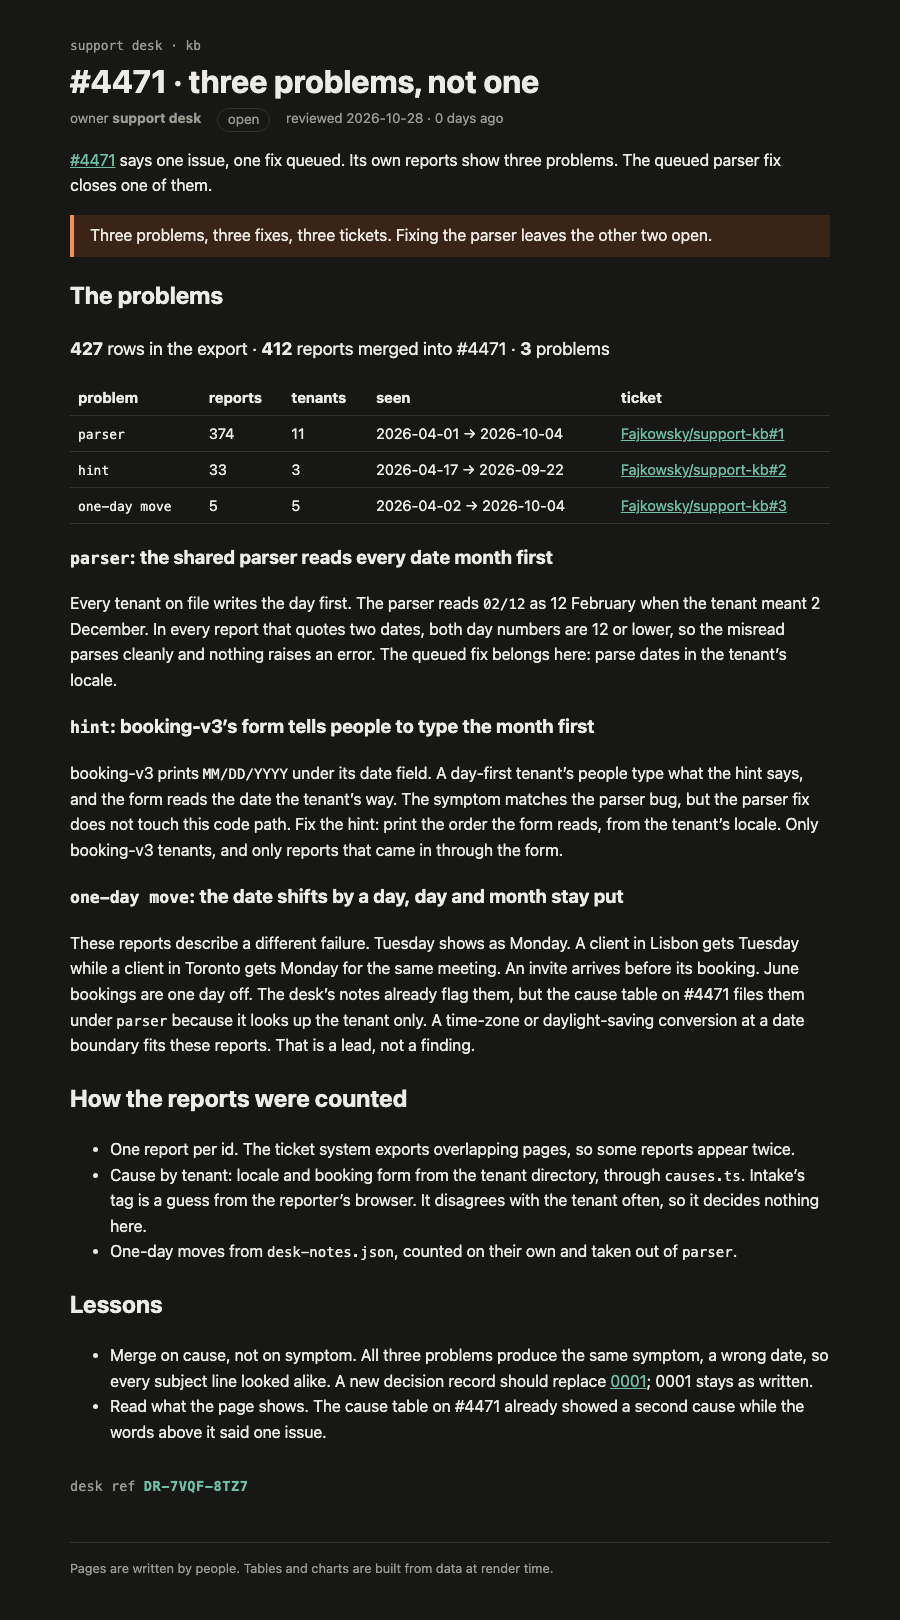
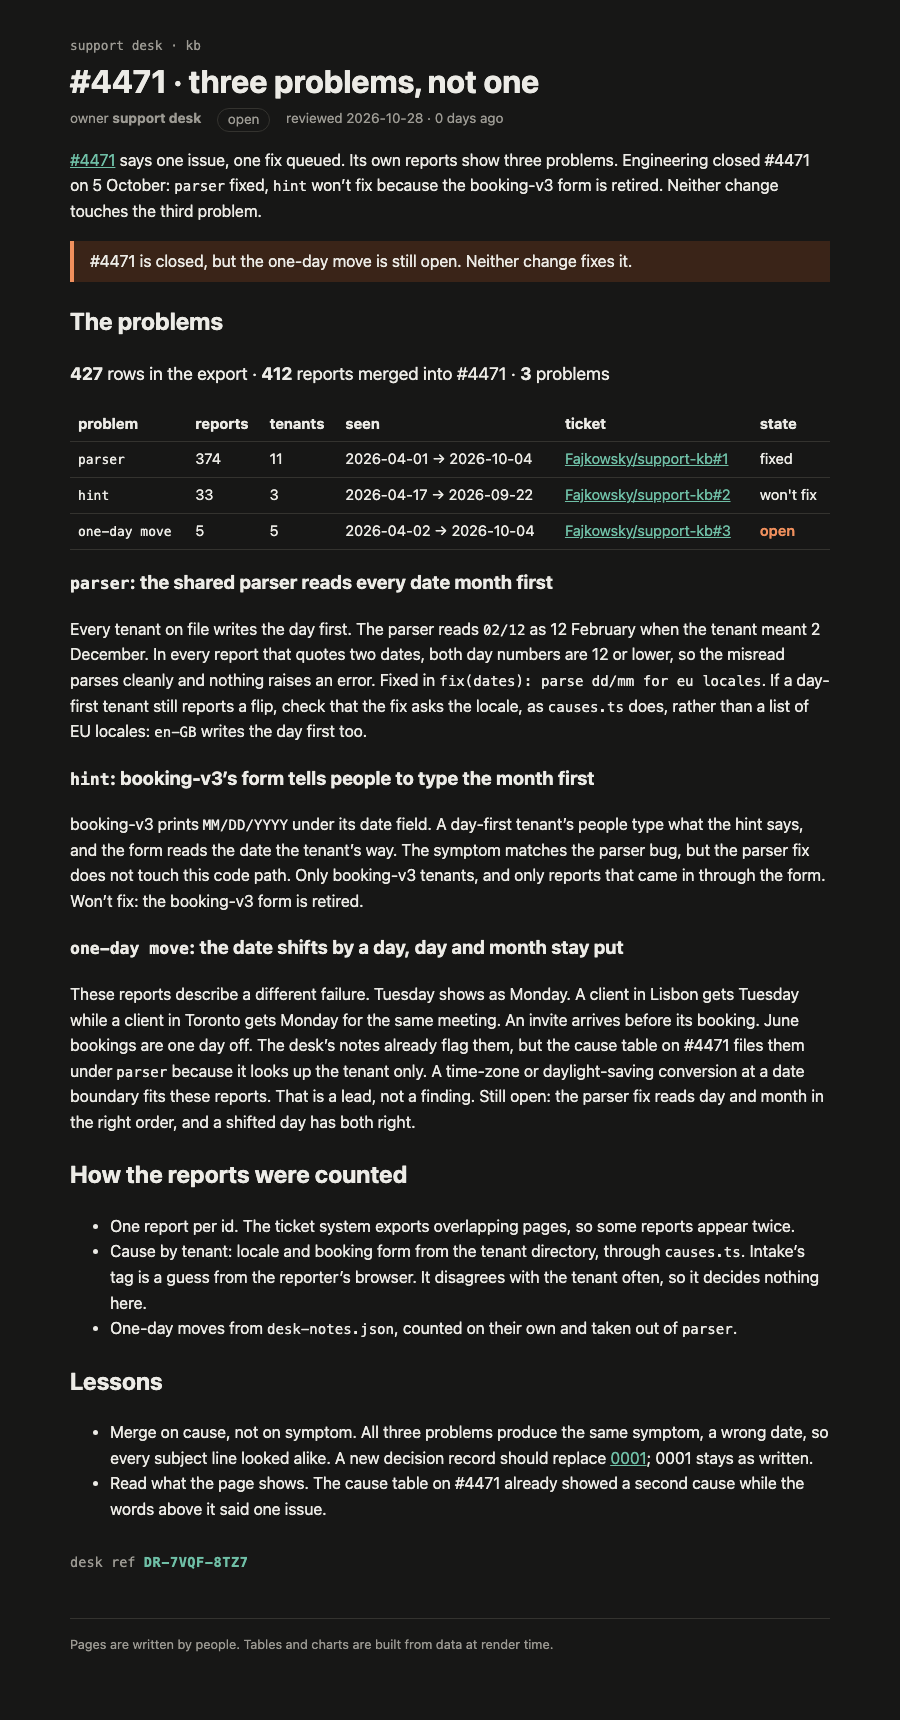
Show where each #4471 problem stands after the 5 October update
Engineering closed #4471: parser fixed, hint won't fix (booking-v3
retired). The one-day move has no fix, so the page and its table
show it as the one problem still open.

diff --git a/rendered/kb/incidents/4471/problems.html b/rendered/kb/incidents/4471/problems.html
@@ -9,11 +9,11 @@
 		<link href="../../../_app/immutable/chunks/B2Ul7l_u.js" rel="modulepreload">
 		<link href="../../../_app/immutable/chunks/BCPXOG7W.js" rel="modulepreload">
 		<link href="../../../_app/immutable/chunks/Dh1V97Jm.js" rel="modulepreload">
-		<link href="../../../_app/immutable/entry/app.Bq2Z7Id1.js" rel="modulepreload">
+		<link href="../../../_app/immutable/entry/app.DWnXs-pQ.js" rel="modulepreload">
 		<link href="../../../_app/immutable/nodes/0.C9KfiiPz.js" rel="modulepreload">
 		<link href="../../../_app/immutable/chunks/DK3Fl9T5.js" rel="modulepreload">
-		<link href="../../../_app/immutable/nodes/5.3StRQrpY.js" rel="modulepreload">
-		<link href="../../../_app/immutable/chunks/CR5Lz9Zx.js" rel="modulepreload">
+		<link href="../../../_app/immutable/nodes/5.BCC8xvKn.js" rel="modulepreload">
+		<link href="../../../_app/immutable/chunks/B6C2bAN5.js" rel="modulepreload">
 		<link href="../../../_app/immutable/chunks/BTPwLomz.js" rel="modulepreload">
 		<link href="../../../_app/immutable/chunks/CVBzP17p.js" rel="modulepreload">
 		<link href="../../../_app/immutable/chunks/BIy4WKJS.js" rel="modulepreload">
@@ -22,25 +22,29 @@
 
 aside.svelte-17bri61{border-left:4px solid var(--accent);background:var(--note-bg);margin:1rem 0;padding:.5rem 1rem}aside.warn.svelte-17bri61{border-color:var(--warn);background:var(--warn-bg)}
 
-.sum.svelte-1op6c6{font-size:1.1rem}.stamp.svelte-1280m42{font:.85rem var(--mono);color:var(--muted);margin:2rem 0 0}.stamp.svelte-1280m42 b:where(.svelte-1280m42){color:var(--accent);letter-spacing:.04em}.missing.svelte-1280m42{color:var(--warn)}
+.sum.svelte-1op6c6{font-size:1.1rem}.open.svelte-1op6c6{color:var(--warn);font-weight:600}.stamp.svelte-1280m42{font:.85rem var(--mono);color:var(--muted);margin:2rem 0 0}.stamp.svelte-1280m42 b:where(.svelte-1280m42){color:var(--accent);letter-spacing:.04em}.missing.svelte-1280m42{color:var(--warn)}
 </style>
 		<link href="../../../_app/immutable/assets/runbook.COyw0cbZ.css" rel="stylesheet" disabled media="(max-width: 0)">
 		<link href="../../../_app/immutable/assets/Callout.AbLv9dM_.css" rel="stylesheet" disabled media="(max-width: 0)">
-		<link href="../../../_app/immutable/assets/_page.CgouBqEL.css" rel="stylesheet" disabled media="(max-width: 0)">
+		<link href="../../../_app/immutable/assets/_page.CMnGdVaO.css" rel="stylesheet" disabled media="(max-width: 0)">
   </head>
   <body>
     <div style="display: contents"><!--[--><!--[--><!--[0--><!--[--><!--[--><!--[-1--><!--[--><div class="kb svelte-e2jw2j"><header><a class="crumb svelte-e2jw2j" href="/kb">support desk · kb</a> <h1 class="svelte-e2jw2j">#4471 · three problems, not one</h1> <p class="meta svelte-e2jw2j"><span>owner <b>support desk</b></span> <span class="status open svelte-e2jw2j">open</span> <span class="svelte-e2jw2j">reviewed 2026-10-28 · 0 days ago</span></p></header> <!--[-1--><!--]--> <main><p><a href="/kb/incidents/4471">#4471</a> says one issue, one fix queued. Its own reports show three problems.
-The queued parser fix closes one of them.</p> <aside class="warn svelte-17bri61"><!---->Three problems, three fixes, three tickets. Fixing the parser leaves the other two open.<!----></aside><!----> <h2>The problems</h2> <p class="sum svelte-1op6c6"><strong>427</strong> rows in the export · <strong>412</strong> reports merged into #4471 · <strong>3</strong> problems</p> <table><thead><tr><th>problem</th><th>reports</th><th>tenants</th><th>seen</th><th>ticket</th></tr></thead><tbody><!--[--><tr><td><code>parser</code></td><td>374</td><td>11</td><td>2026-04-01 → 2026-10-04</td><td><!--[0--><a href="https://github.com/Fajkowsky/support-kb/issues/1">Fajkowsky/support-kb#1</a><!--]--></td></tr><tr><td><code>hint</code></td><td>33</td><td>3</td><td>2026-04-17 → 2026-09-22</td><td><!--[0--><a href="https://github.com/Fajkowsky/support-kb/issues/2">Fajkowsky/support-kb#2</a><!--]--></td></tr><tr><td><code>one-day move</code></td><td>5</td><td>5</td><td>2026-04-02 → 2026-10-04</td><td><!--[0--><a href="https://github.com/Fajkowsky/support-kb/issues/3">Fajkowsky/support-kb#3</a><!--]--></td></tr><!--]--></tbody></table><!----> <h3><code>parser</code>: the shared parser reads every date month first</h3> <p>Every tenant on file writes the day first. The parser reads <code>02/12</code> as 12 February when the
+Engineering closed #4471 on 5 October: <code>parser</code> fixed, <code>hint</code> won’t fix because the booking-v3
+form is retired. Neither change touches the third problem.</p> <aside class="warn svelte-17bri61"><!---->#4471 is closed, but the one-day move is still open. Neither change fixes it.<!----></aside><!----> <h2>The problems</h2> <p class="sum svelte-1op6c6"><strong>427</strong> rows in the export · <strong>412</strong> reports merged into #4471 · <strong>3</strong> problems</p> <table><thead><tr><th>problem</th><th>reports</th><th>tenants</th><th>seen</th><th>ticket</th><th>state</th></tr></thead><tbody><!--[--><tr><td><code>parser</code></td><td>374</td><td>11</td><td>2026-04-01 → 2026-10-04</td><!--[0--><td><a href="https://github.com/Fajkowsky/support-kb/issues/1">Fajkowsky/support-kb#1</a></td> <td class="svelte-1op6c6">fixed</td><!--]--></tr><tr><td><code>hint</code></td><td>33</td><td>3</td><td>2026-04-17 → 2026-09-22</td><!--[0--><td><a href="https://github.com/Fajkowsky/support-kb/issues/2">Fajkowsky/support-kb#2</a></td> <td class="svelte-1op6c6">won't fix</td><!--]--></tr><tr><td><code>one-day move</code></td><td>5</td><td>5</td><td>2026-04-02 → 2026-10-04</td><!--[0--><td><a href="https://github.com/Fajkowsky/support-kb/issues/3">Fajkowsky/support-kb#3</a></td> <td class="svelte-1op6c6 open">open</td><!--]--></tr><!--]--></tbody></table><!----> <h3><code>parser</code>: the shared parser reads every date month first</h3> <p>Every tenant on file writes the day first. The parser reads <code>02/12</code> as 12 February when the
 tenant meant 2 December. In every report that quotes two dates, both day numbers are 12 or
-lower, so the misread parses cleanly and nothing raises an error. The queued fix belongs here:
-parse dates in the tenant’s locale.</p> <h3><code>hint</code>: booking-v3’s form tells people to type the month first</h3> <p>booking-v3 prints <code>MM/DD/YYYY</code> under its date field. A day-first tenant’s people type what the
+lower, so the misread parses cleanly and nothing raises an error. Fixed in <code>fix(dates): parse dd/mm for eu locales</code>. If a day-first tenant still reports a flip, check that
+the fix asks the locale, as <code>causes.ts</code> does, rather than a list of EU locales: <code>en-GB</code> writes the
+day first too.</p> <h3><code>hint</code>: booking-v3’s form tells people to type the month first</h3> <p>booking-v3 prints <code>MM/DD/YYYY</code> under its date field. A day-first tenant’s people type what the
 hint says, and the form reads the date the tenant’s way. The symptom matches the parser bug, but
-the parser fix does not touch this code path. Fix the hint: print the order the form reads, from
-the tenant’s locale. Only booking-v3 tenants, and only reports that came in through the form.</p> <h3><code>one-day move</code>: the date shifts by a day, day and month stay put</h3> <p>These reports describe a different failure. Tuesday shows as Monday. A client in Lisbon gets
+the parser fix does not touch this code path. Only booking-v3 tenants, and only reports that
+came in through the form. Won’t fix: the booking-v3 form is retired.</p> <h3><code>one-day move</code>: the date shifts by a day, day and month stay put</h3> <p>These reports describe a different failure. Tuesday shows as Monday. A client in Lisbon gets
 Tuesday while a client in Toronto gets Monday for the same meeting. An invite arrives before its
 booking. June bookings are one day off. The desk’s notes already flag them, but the cause table
 on #4471 files them under <code>parser</code> because it looks up the tenant only. A time-zone or
-daylight-saving conversion at a date boundary fits these reports. That is a lead, not a finding.</p> <h2>How the reports were counted</h2> <ul><li>One report per id. The ticket system exports overlapping pages, so some reports appear twice.</li> <li>Cause by tenant: locale and booking form from the tenant directory, through <code>causes.ts</code>.
+daylight-saving conversion at a date boundary fits these reports. That is a lead, not a finding.
+Still open: the parser fix reads day and month in the right order, and a shifted day has both
+right.</p> <h2>How the reports were counted</h2> <ul><li>One report per id. The ticket system exports overlapping pages, so some reports appear twice.</li> <li>Cause by tenant: locale and booking form from the tenant directory, through <code>causes.ts</code>.
 Intake’s tag is a guess from the reporter’s browser. It disagrees with the tenant often, so it
 decides nothing here.</li> <li>One-day moves from <code>desk-notes.json</code>, counted on their own and taken out of <code>parser</code>.</li></ul> <h2>Lessons</h2> <ul><li>Merge on cause, not on symptom. All three problems produce the same symptom, a wrong date, so
 every subject line looked alike. A new decision record should replace <a href="/kb/decisions/0001-dedupe-by-subject">0001</a>; 0001 stays as written.</li> <li>Read what the page shows. The cause table on #4471 already showed a second cause while the
@@ -48,16 +52,16 @@ words above it said one issue.</li></ul> <!--[0--><p class="stamp svelte-1280m42
 			
 			<script>
 				{
-					__sveltekit_1s9sp = {
+					__sveltekit_lbwzdg = {
 						base: new URL("../../..", location).pathname.slice(0, -1),
-						version: "1793165370372"
+						version: "1793165573385"
 					};
 
 					const element = document.currentScript.parentElement;
 
 					import("../../../_app/immutable/entry/start.CH5w6lId.js").then(async (kit) => {
-						kit.init(__sveltekit_1s9sp);
-						const app = await import("../../../_app/immutable/entry/app.Bq2Z7Id1.js");
+						kit.init(__sveltekit_lbwzdg);
+						const app = await import("../../../_app/immutable/entry/app.DWnXs-pQ.js");
 						kit.start(app, element, {
 							node_ids: [0, 5],
 							data: [null,null],

diff --git a/src/lib/kb/ProblemTable.svelte b/src/lib/kb/ProblemTable.svelte
@@ -6,8 +6,9 @@
 
   // One row per problem in a ticket, each counted once: the causes causes.ts finds, minus the reports
   // the desk read as a one-day move (desk-notes.json), which are a problem of their own.
-  // `issues`: problem → issue number in the GitHub `repo` that tracks it.
-  let { ticket, repo, issues = {} }: { ticket: number; repo: string; issues?: Record<string, number> } = $props();
+  // `tickets`: problem → the issue in the GitHub `repo` that tracks it, and where that issue stands.
+  type Tracked = { issue: number; state: string };
+  let { ticket, repo, tickets = {} }: { ticket: number; repo: string; tickets?: Record<string, Tracked> } = $props();
 
   const merged = $derived(uniqueById(reports as Report[]).filter((r) => r.mergedInto === ticket));
   const isOneDayMove = (r: Report) => notes.oneDayMove.includes(r.id);
@@ -26,7 +27,7 @@
 
 <table>
   <thead>
-    <tr><th>problem</th><th>reports</th><th>tenants</th><th>seen</th><th>ticket</th></tr>
+    <tr><th>problem</th><th>reports</th><th>tenants</th><th>seen</th><th>ticket</th><th>state</th></tr>
   </thead>
   <tbody>
     {#each problems as p (p.cause)}
@@ -35,7 +36,13 @@
         <td>{p.reports.length}</td>
         <td>{p.tenants}</td>
         <td>{p.firstSeen} → {p.lastSeen}</td>
-        <td>{#if issues[p.cause]}<a href="https://github.com/{repo}/issues/{issues[p.cause]}">{repo}#{issues[p.cause]}</a>{:else}none yet{/if}</td>
+        {#if tickets[p.cause]}
+          <td><a href="https://github.com/{repo}/issues/{tickets[p.cause].issue}">{repo}#{tickets[p.cause].issue}</a></td>
+          <td class:open={tickets[p.cause].state === 'open'}>{tickets[p.cause].state}</td>
+        {:else}
+          <td>none yet</td>
+          <td class="open">open</td>
+        {/if}
       </tr>
     {/each}
   </tbody>
@@ -43,4 +50,5 @@
 
 <style>
   .sum { font-size: 1.1rem; }
+  .open { color: var(--warn); font-weight: 600; }
 </style>
